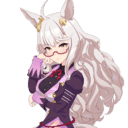
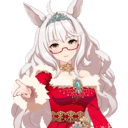
New test (#2)
* Update index.html

* Update styles.css

* Update characters.csv

* Delete Icons/biwa_hayahide.png

* Delete Icons/fine_motion.png

* Delete Icons/special_week.png

* Add files via upload

* Update races.csv

diff --git a/styles.css b/styles.css
@@ -630,3 +630,30 @@ h1 {
 ::-webkit-scrollbar-track { background: transparent; }
 ::-webkit-scrollbar-thumb { background: rgba(139,107,174,0.25); border-radius: 6px; }
 ::-webkit-scrollbar-thumb:hover { background: rgba(139,107,174,0.45); }
+
+/* ── Costume cycle button ── */
+.costume-cycle-btn {
+  position: absolute;
+  bottom: 2px;
+  right: 2px;
+  width: 18px;
+  height: 18px;
+  border-radius: 50%;
+  border: none;
+  background: rgba(255,255,255,0.85);
+  color: var(--purple-dark, #3C3489);
+  font-size: 11px;
+  line-height: 1;
+  cursor: pointer;
+  display: flex;
+  align-items: center;
+  justify-content: center;
+  padding: 0;
+  box-shadow: 0 1px 3px rgba(0,0,0,0.2);
+  transition: background 0.15s, transform 0.15s;
+  z-index: 2;
+}
+.costume-cycle-btn:hover {
+  background: rgba(255,255,255,1);
+  transform: rotate(90deg);
+}
